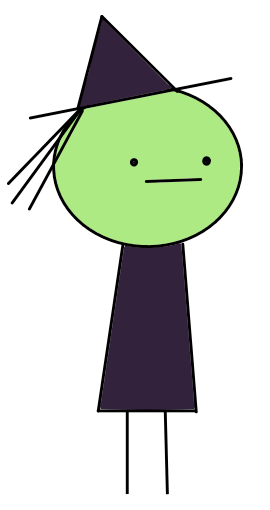
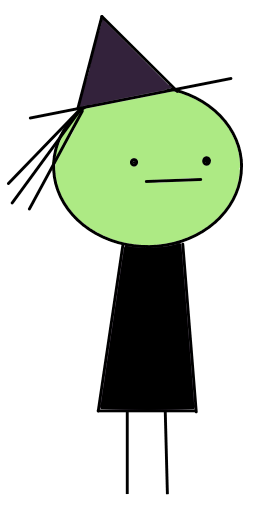
got multiple bubbles on screen

Changed region(s): [[0.3556, 0.4706, 0.7407, 0.8235]]

diff --git a/main.cpp b/main.cpp
@@ -18,26 +18,33 @@
 
 #include "CS3113/cs3113.h"
 #include <math.h>
+#include <vector>
 
 // Global Constants
 constexpr int SCREEN_WIDTH  = 800 * 1.5f,
               SCREEN_HEIGHT = 450 * 1.5f,
               FPS           = 60,
-              SIZE = 1000;
+              SIZE = 75;
 
-constexpr float MAX_ROW_AMP = 10.0f;
+constexpr float MAX_ROW_AMP     = 10.0f,
+                MAX_RAND_RANGE  = 90.0f,
+                BUBBLE_SPACING = 175.0f;
 
 constexpr char BG_COLOUR[] = "#B2AAC6";
 constexpr Vector2 ORIGIN = {SCREEN_WIDTH/2, SCREEN_HEIGHT/2};
-constexpr Vector2 BASE_SIZE = {static_cast<float>(SIZE), static_cast<float>(SIZE)};
+constexpr Vector2 BUBBLE_BASE_SIZE = {static_cast<float>(SIZE),
+                                      static_cast<float>(SIZE)};
 constexpr Vector2 WITCH_OFFSET = {-200, 0};
 constexpr Vector2 STICK_OFFSET = {-120, 100};
-constexpr Vector2 CAULDRON_OFFSET {25, 145};
+constexpr Vector2 CAULDRON_OFFSET = {25, 145};
+constexpr Vector2 BUBBLE_SWIRL_OFFSET = {0, 140};
 
 // images drawn by me, so no suing yay :'D
 constexpr char WITCH_FP[] = "assets/witchMinusArms.png";
 constexpr char STICK_FP[] = "assets/stickPlusArms.png";
 constexpr char CAULDRON_FP[] = "assets/cauldron.png";
+constexpr char BUBBLE_FP[] = "assets/bubble.png";
+constexpr char SWIRL_FP[] = "assets/swirl.png";
 
 // Global Variables
 AppStatus gAppStatus    = RUNNING;
@@ -45,17 +52,30 @@ float   gScaleFactor    = SIZE,
         gAngle          = 0.0f,
         gPulseTime      = 0.0f,
         gStickRowTime   = 0.0f,
-        gRowFreq        = 2.5f;
+        gRowFreq        = 2.5f,
+        gPreviousTicks  = 0.0f,
+        gBubbleSpeed    = 20.0f,
+        gBubbleTime     = 0.0f;
 Vector2 gWitchPos = {ORIGIN.x + WITCH_OFFSET.x, ORIGIN.y + WITCH_OFFSET.y};
 Vector2 gStickPos = {ORIGIN.x + STICK_OFFSET.x, ORIGIN.y + STICK_OFFSET.y};
 Vector2 gCauldronPos = {ORIGIN.x + CAULDRON_OFFSET.x,
                             ORIGIN.y + CAULDRON_OFFSET.y};
-Vector2 gScale          = BASE_SIZE;
-float gPreviousTicks = 0.0f;
+Vector2 gBubbleScale          = BUBBLE_BASE_SIZE;
+
+std::vector<Vector2> gBubblePosList = { // lowest to highest
+    {ORIGIN.x + BUBBLE_SWIRL_OFFSET.x + 70,
+     ORIGIN.y + BUBBLE_SWIRL_OFFSET.y},
+    {ORIGIN.x + BUBBLE_SWIRL_OFFSET.x + 25,
+     ORIGIN.y + BUBBLE_SWIRL_OFFSET.y - BUBBLE_SPACING},
+    {ORIGIN.x + BUBBLE_SWIRL_OFFSET.x + 55,
+     ORIGIN.y + BUBBLE_SWIRL_OFFSET.y - 2*BUBBLE_SPACING}
+};
 
 Texture2D gWitchTexture;
 Texture2D gStickTexture;
 Texture2D gCauldronTexture;
+Texture2D gBubbleTexture;
+Texture2D gSwirlTexture;
 
 // Function Declarations
 void intialise();
@@ -72,6 +92,8 @@ void initialise(){
     gWitchTexture = LoadTexture(WITCH_FP);
     gStickTexture = LoadTexture(STICK_FP);
     gCauldronTexture = LoadTexture(CAULDRON_FP);
+    gBubbleTexture = LoadTexture(BUBBLE_FP);
+    gSwirlTexture = LoadTexture(SWIRL_FP);
 
 
     SetTargetFPS(FPS);
@@ -93,6 +115,13 @@ void update(){
         ORIGIN.x + STICK_OFFSET.x + MAX_ROW_AMP * cos(gRowFreq*gStickRowTime),
         ORIGIN.y + STICK_OFFSET.y + 0.5f * MAX_ROW_AMP * sin(gRowFreq*gStickRowTime)
     };
+
+    // bubbling
+    // gBubbleTime += 1.0f*deltaTime;
+    for (int i = 0; i < 3; i++){
+        gBubblePosList[i].y -= gBubbleSpeed*deltaTime; // check for wrap later
+    }
+
 
     // gPulseTime += 1.0f*deltaTime;
 
@@ -136,7 +165,6 @@ void render(){
     );
 
     // stick (plus arms)
-
     Rectangle sTextureArea = {
         0.0f, 0.0f,
         static_cast<float>(gStickTexture.width),
@@ -192,6 +220,43 @@ void render(){
         WHITE
     );
 
+    // bubbles
+    Rectangle bTextureArea = {
+        0.0f, 0.0f,
+        static_cast<float>(gBubbleTexture.width),
+        static_cast<float>(gBubbleTexture.height)
+    };
+
+    Rectangle bDestinationArea = {
+        gBubblePosList[0].x,
+        gBubblePosList[0].y,
+        static_cast<float>(gBubbleScale.x),
+        static_cast<float>(gBubbleScale.y)
+    };
+
+    Vector2 bubbleOrigin = {
+        static_cast<float>(gBubbleScale.x)/2,
+        static_cast<float>(gBubbleScale.y)/2
+    };
+
+    for (int i = 0; i < 3; i++){
+        Rectangle bDestinationArea = {
+            gBubblePosList[i].x,
+            gBubblePosList[i].y,
+            static_cast<float>(gBubbleScale.x),
+            static_cast<float>(gBubbleScale.y)
+        };
+
+        DrawTexturePro(
+            gBubbleTexture,
+            bTextureArea,
+            bDestinationArea,
+            bubbleOrigin,
+            gAngle,
+            WHITE
+        );
+    }
+
     EndDrawing();
 }
 
@@ -202,6 +267,8 @@ void shutdown(){
     UnloadTexture(gWitchTexture);
     UnloadTexture(gStickTexture);
     UnloadTexture(gCauldronTexture);
+    UnloadTexture(gBubbleTexture);
+    UnloadTexture(gSwirlTexture);
 
 }
 
